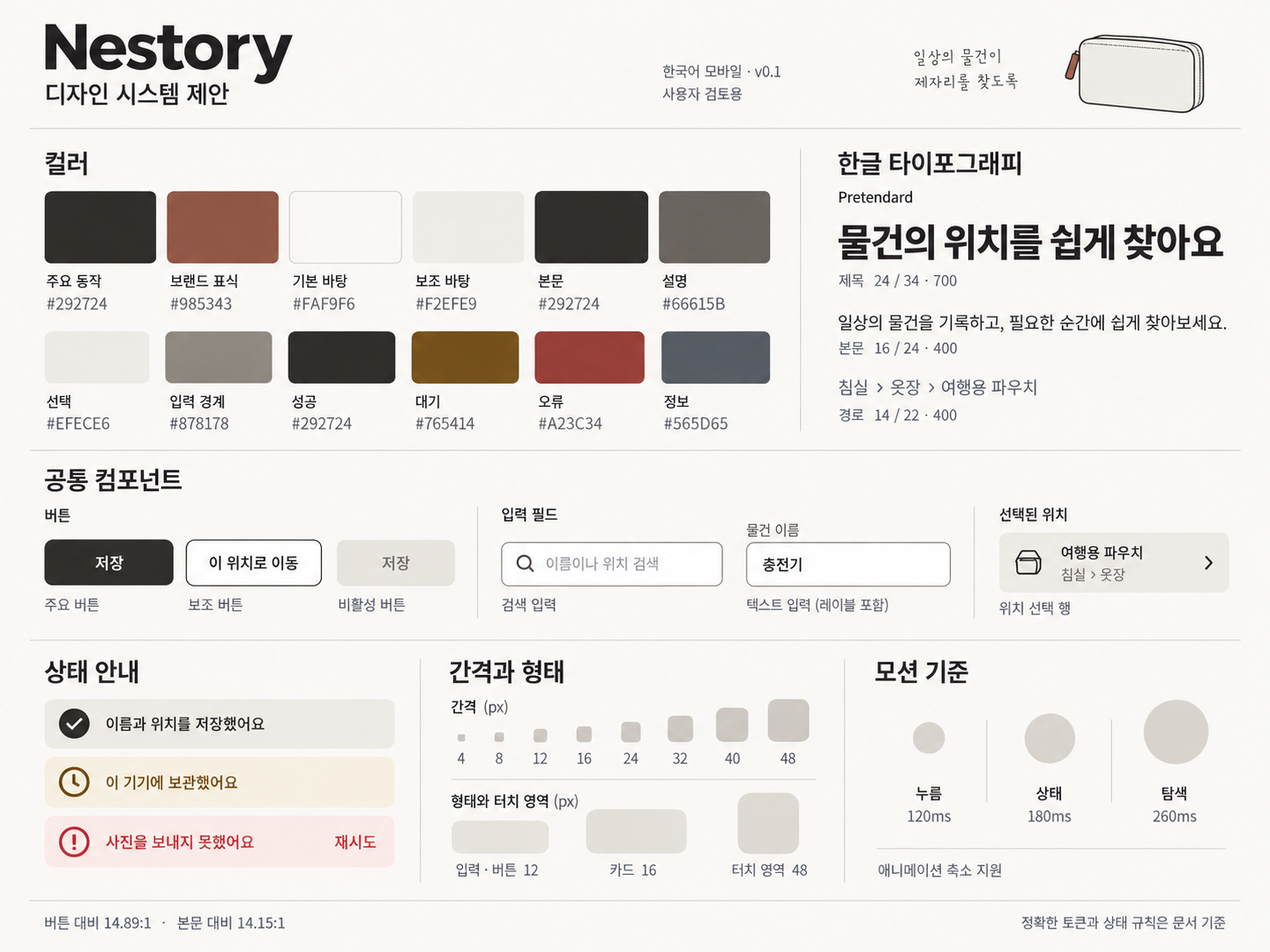
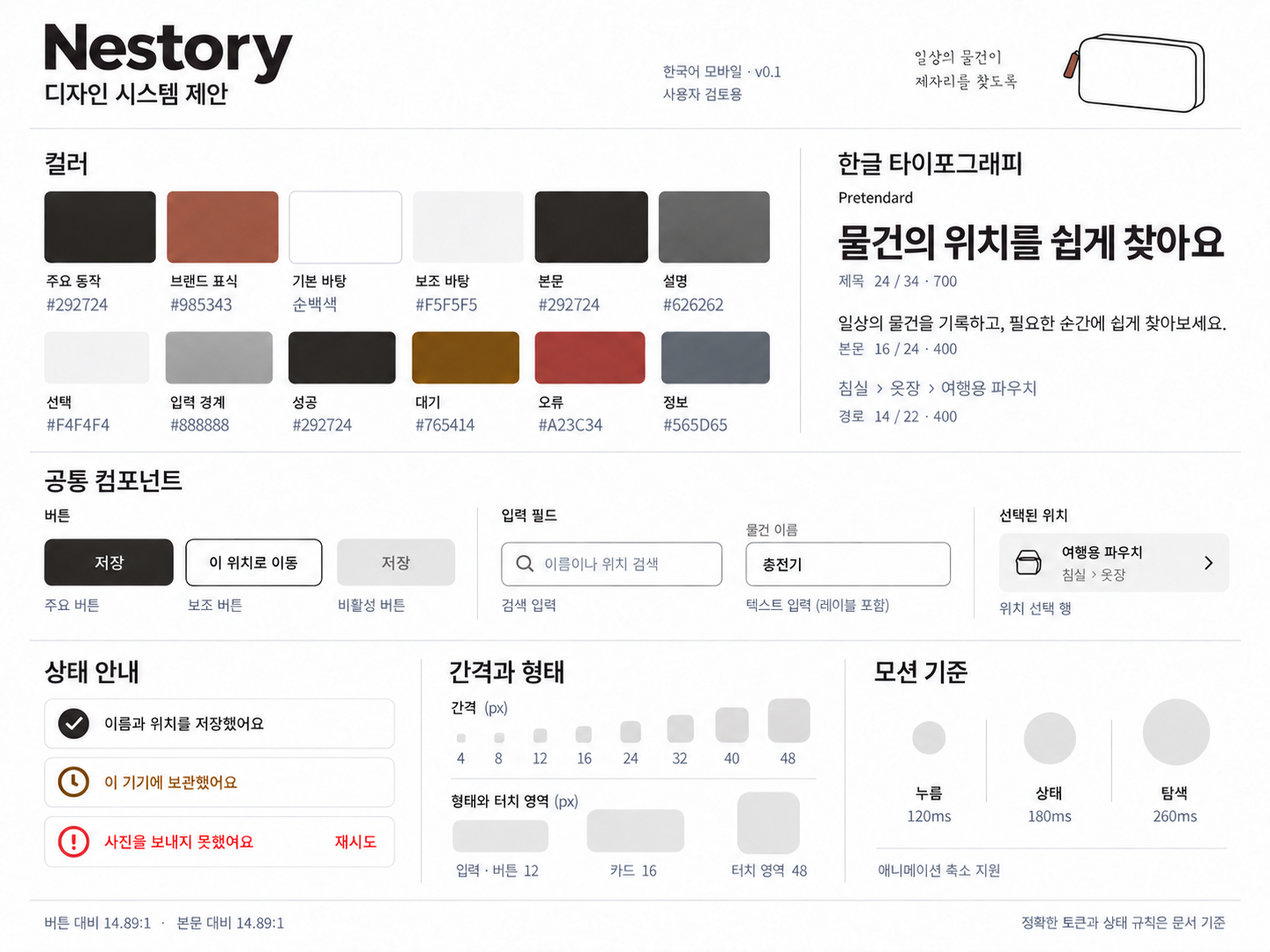
design: use white surfaces and neutral grey backgrounds (#3)

diff --git a/docs/design/DESIGN_BOARD_PROMPT.md b/docs/design/DESIGN_BOARD_PROMPT.md
@@ -1,38 +1,52 @@
 # Nestory 디자인 시스템 이미지 프롬프트
 
-[Issue 3](https://github.com/YunFlutter/nestory/issues/3)의 사용자 검토용 보드다. 원본 사양은 [디자인 시스템](../DESIGN_SYSTEM.md)이다. 사용자가 그린 계열과 AI스럽게 느껴지는 색 조합을 원하지 않아 블루·살구 제안을 웜화이트·차콜·소량의 브릭으로 수정했다.
+[Issue 3](https://github.com/YunFlutter/nestory/issues/3)의 사용자 검토용 보드다. 원본 사양은 [디자인 시스템](../DESIGN_SYSTEM.md)이다. 사용자가 그린 계열과 AI스럽게 느껴지는 색 조합을 원하지 않아 블루·살구 제안을 흰색 바탕·밝은 무채색 회색·차콜·소량의 브릭으로 수정했다. 사용자가 국내 앱과 어울리는 바탕을 요청해 웜화이트·베이지를 제거했다.
 
 ## 최종 수정에 사용한 프롬프트
 
 입력은 앞서 생성한 4:3 디자인 시스템 보드다. 아래 지시로 편집하며 레이아웃은 유지하고 색·그래픽을 교체한다. 이전 제안 이미지는 최종 결과에 포함하지 않는다. 재생성 시에는 아래 보드 내용과 문서의 토큰을 함께 사용한다.
 
 ```text
-Edit the attached Nestory design-system board. Preserve its 4:3 landscape proportions, editorial grid, section positions, generous spacing, readable Korean labels, component content, and alignment. Replace the complete visual style with a quiet, mature editorial system: warm off-white, neutral charcoal, warm grey, with a single restrained muted brick accent. It is a Korean personal belongings and location app, not an AI product or tech startup landing page. Do not add features or device frames.
+Edit the attached Nestory design-system board. Preserve its 4:3 landscape proportions, editorial grid, section positions, generous spacing, readable Korean labels, component content, and alignment. Use a crisp everyday mobile-app UI system: PURE WHITE page and surfaces, achromatic light greys, neutral charcoal, and one tiny restrained muted brick brand accent. The attached warm ivory/beige board is rejected. REMOVE the ivory cast from the entire canvas, all swatches, all component backgrounds, neutral text, spacing blocks, shapes and motion circles. Keep all existing content and the grid. The canvas must visibly read as bright clean white, not a paper sheet or a cream lifestyle mood board. It is a Korean personal belongings and location app, not an AI product or tech startup landing page. Do not add features or device frames.
 
-CRITICAL STYLE: every color surface must be SOLID and FLAT. No gradients at all, no glossy materials, no 3D render, no luminous edges, no shadows on swatches, no pastel candy palette, no blue or purple brand colors, no teal, mint, green, sage or olive. No texture that distorts token colors. Light warm paper-colored background, thin neutral rules, strong but restrained typography. Let the Korean text and functional component hierarchy provide the character. Brick is a tiny brand accent, not a colored primary button or a large decorative panel.
+CRITICAL STYLE: every color surface must be SOLID and FLAT. No gradients at all, no glossy materials, no 3D render, no luminous edges, no shadows on swatches, no pastel candy palette, no blue or purple brand colors, no teal, mint, green, sage or olive. No texture that distorts token colors. Pure WHITE #FFFFFF background with no paper texture, no beige/ivory/yellow cast, thin achromatic neutral rules, strong but restrained typography. Let the Korean text and functional component hierarchy provide the character. Brick is a tiny brand accent, not a colored primary button or a large decorative panel.
 
 Replace ALL visual fills and printed hex labels with these exact roles:
-Main page background #FAF9F6; surface #FFFFFF; subtle surface #F2EFE9; primary action and primary text #292724; secondary text #66615B; selected surface #EFECE6 and selected text/icon #292724; small brand accent #985343; input outline #878178; divider #E5E1DA; disabled background #ECE9E3 with disabled text #7B756D; success text/icon #292724 on #EFECE6; warning text/icon #765414 on #F6F0E3; error text/icon #A23C34 on #FAEEEB; information text/icon #565D65 on #F0F1F2. Primary button text is white #FFFFFF. If pressed-state needed use #151412. The brick accent is muted brownish red, never pastel pink or peach. It must not appear in the success, selected-location, spacing, or motion specimens.
+Main page background #FFFFFF; surface #FFFFFF; subtle surface #F5F5F5; primary action and primary text #292724; secondary text #626262; selected surface #F4F4F4 and selected text/icon #292724; small brand accent #985343; input outline #888888; divider #E9E9E9; disabled background #EEEEEE with disabled text #777777; success text/icon #292724 on #FFFFFF; warning text/icon #765414 on #FFFFFF; error text/icon #A23C34 on #FFFFFF; information text/icon #565D65 on #FFFFFF. Primary button text is white #FFFFFF. If pressed-state needed use #151412. The brick accent is muted brownish red, never pastel pink or peach. It must not appear in the success, selected-location, spacing, or motion specimens.
 
 HEADER: "Nestory" and "디자인 시스템 제안", metadata "한국어 모바일 · v0.1" and "사용자 검토용". Keep the short sentence "일상의 물건이 제자리를 찾도록" if it fits. Remove the glossy peach 3D pouch and blue location pin. Replace with a small simple FLAT charcoal outline drawing of a pouch, with a tiny brick zipper tab. No shading, no realistic material, no 3D, no location pin floating above it. Keep illustration small and secondary to the content.
 
-SECTION 1 "컬러": top-row swatches with labels and printed hex outside: "주요 동작" #292724; "브랜드 표식" #985343; "기본 바탕" #FAF9F6; "보조 바탕" #F2EFE9; "본문" #292724; "설명" #66615B. Second row: "선택" #EFECE6; "입력 경계" #878178; "성공" #292724; "대기" #765414; "오류" #A23C34; "정보" #565D65. All swatches are flat, single colors. Printed hex must exactly match its label and stay clear/readable.
+SECTION 1 "컬러": top-row swatches with labels and printed hex outside: "주요 동작" #292724; "브랜드 표식" #985343; "기본 바탕" #FFFFFF; "보조 바탕" #F5F5F5; "본문" #292724; "설명" #626262. Second row: "선택" #F4F4F4; "입력 경계" #888888; "성공" #292724; "대기" #765414; "오류" #A23C34; "정보" #565D65. All swatches are flat, single colors. Printed hex must exactly match its label and stay clear/readable.
 
-SECTION 2 "한글 타이포그래피": keep typeface label "Pretendard" and sample "물건의 위치를 쉽게 찾아요". Sample body "일상의 물건을 기록하고, 필요한 순간에 쉽게 찾아보세요." Labels "제목 24 / 34 · 700", "본문 16 / 24 · 400", "경로 14 / 22 · 400". Path "침실 › 옷장 › 여행용 파우치". This is an illustrative font rendering, not font installation. Charcoal main text, warm grey secondary text.
+SECTION 2 "한글 타이포그래피": keep typeface label "Pretendard" and sample "물건의 위치를 쉽게 찾아요". Sample body "일상의 물건을 기록하고, 필요한 순간에 쉽게 찾아보세요." Labels "제목 24 / 34 · 700", "본문 16 / 24 · 400", "경로 14 / 22 · 400". Path "침실 › 옷장 › 여행용 파우치". This is an illustrative font rendering, not font installation. Charcoal main text, achromatic #626262 secondary text. Never blue-grey or brown secondary text.
 
-SECTION 3 "공통 컴포넌트": primary button "저장", charcoal fill and white label; secondary button "이 위치로 이동", white fill charcoal label and neutral outline; disabled "저장", warm neutral fill and muted dark label. Captions "주요 버튼", "보조 버튼", "비활성 버튼". Search field "이름이나 위치 검색" with magnifier and caption "검색 입력". Persistent field label "물건 이름", value "충전기", caption "텍스트 입력 (레이블 포함)". Selected row on #EFECE6 with charcoal line box icon and chevron, label "여행용 파우치", path "침실 › 옷장", caption "위치 선택 행". Buttons radius 12, cards 16, consistent thin line icons, sufficient tap spacing. No green or blue accent in selected state.
+SECTION 3 "공통 컴포넌트": primary button "저장", charcoal fill and white label; secondary button "이 위치로 이동", white fill charcoal label and neutral outline; disabled "저장", achromatic light grey fill and muted dark label. Captions "주요 버튼", "보조 버튼", "비활성 버튼". Search field "이름이나 위치 검색" with magnifier and caption "검색 입력". Persistent field label "물건 이름", value "충전기", caption "텍스트 입력 (레이블 포함)". Selected row on #F4F4F4 with charcoal line box icon and chevron, label "여행용 파우치", path "침실 › 옷장", caption "위치 선택 행". Buttons radius 12, cards 16, consistent thin line icons, sufficient tap spacing. No green or blue accent in selected state.
 
-SECTION 4 "상태 안내": three rows, icons plus text, not just colors. Success: charcoal check and "이름과 위치를 저장했어요" on #EFECE6. Device-only preservation: muted amber waiting icon and "이 기기에 보관했어요" on #F6F0E3. Photo failure: red error icon and "사진을 보내지 못했어요", with separate "재시도" action, on #FAEEEB. No green success icon, no fake success for photo failure or device-only save.
+SECTION 4 "상태 안내": three rows, icons plus text, not just colors. ALL THREE row backgrounds must be WHITE, no cream, yellow or pink panel fills. Use a thin #E9E9E9 decorative border if needed. Color is reserved for the warning and error ICONS AND TEXT. Success: charcoal check and "이름과 위치를 저장했어요" on WHITE #FFFFFF. Device-only preservation: muted amber waiting icon and "이 기기에 보관했어요" on #FFFFFF. Photo failure: red error icon and "사진을 보내지 못했어요", with separate "재시도" action, on #FFFFFF. No green success icon, no fake success for photo failure or device-only save.
 
-SECTION 5 "간격과 형태": small neutral flat spacing specimens labeled "4 · 8 · 12 · 16 · 24 · 32 · 40 · 48", caption "간격 (px)". Under "형태와 터치 영역 (px)" show three simple neutral shape specimens labeled "입력·버튼 12", "카드 16", "터치 영역 48". Touch target is not a corner radius. No extra chart metrics. Keep all specimen fills warm neutral, not colored decoration.
+SECTION 5 "간격과 형태": small neutral flat spacing specimens labeled "4 · 8 · 12 · 16 · 24 · 32 · 40 · 48", caption "간격 (px)". Under "형태와 터치 영역 (px)" show three simple neutral shape specimens labeled "입력·버튼 12", "카드 16", "터치 영역 48". Touch target is not a corner radius. No extra chart metrics. Keep all specimen fills achromatic light grey, not colored decoration.
 
 SECTION 6 "모션 기준": three simple neutral flat sequence circles and thin neutral separators. Labels "누름 120ms", "상태 180ms", "탐색 260ms". Footer "애니메이션 축소 지원". No gradient circles, no glowing effects, no purple/blue/green tints.
 
-BOTTOM FOOTER, exact: "버튼 대비 14.89:1 · 본문 대비 14.15:1" and "정확한 토큰과 상태 규칙은 문서 기준". These ratios describe source document token pairs, not generated-image pixel certification.
+BOTTOM FOOTER, exact: "버튼 대비 14.89:1 · 본문 대비 14.89:1" and "정확한 토큰과 상태 규칙은 문서 기준". These ratios describe source document token pairs, not generated-image pixel certification.
 
-The result should read as a carefully typeset, practical design system review sheet. Maintain the layout, eliminate decorative color and synthetic glossy style, prioritize legible Korean. Do not add awards, certification badges, slogans, new metrics or product features.
+The result should read as a clean contemporary mobile UI specification on a PURE WHITE canvas, not a beige print editorial poster. Maintain the layout, eliminate decorative color and synthetic glossy style, prioritize legible Korean. Do not add awards, certification badges, slogans, new metrics or product features.
 ```
 
 ## 검토 기준
 
-모든 색 면이 단색인지, 그린·블루·보라 브랜드색과 광택 소품이 사라졌는지, 브릭이 작은 표식에만 쓰이는지 확인한다. 역할별 색 라벨·한국어 문구·버튼 상태·사진 실패 재시도·터치 영역의 의미를 원본 문서와 비교한다. 정확한 서체·hex·픽셀 대비는 이미지 생성 결과로 보장하지 않으며 구현은 원본 문서의 토큰을 따른다.
+배경·카드·상태 행이 흰색이고 선택·보조 영역이 무채색 회색인지, 웜화이트·베이지가 제거되었는지, 모든 색 면이 단색인지, 그린·블루·보라 브랜드색과 광택 소품이 사라졌는지, 브릭이 작은 표식에만 쓰이는지 확인한다. 역할별 색 라벨·한국어 문구·버튼 상태·사진 실패 재시도·터치 영역의 의미를 원본 문서와 비교한다. 정확한 서체·hex·픽셀 대비는 이미지 생성 결과로 보장하지 않으며 구현은 원본 문서의 토큰을 따른다.
+
+## 기본 바탕 라벨 보정
+
+첫 흰색 보드에서 기본 바탕의 hex 라벨에 오자가 보여 아래 프롬프트로 다시 수정했다.
+
+```text
+Edit ONLY the printed hex label immediately under the color swatch titled "기본 바탕" in the upper color section. It MUST read exactly "#FFFFFF" — a hash followed by SIX uppercase F characters. The current label incorrectly ends in a 6. Replace it with #FFFFFF. Keep that swatch and the entire canvas pure white. Preserve absolutely every other label, number, section, illustration, component, color, spacing, size and layout unchanged. Do not redesign or recolor anything. This is a single text typo correction.
+```
+
+위 hex 보정 시도에서도 오자가 남아 이미지의 해당 라벨을 `순백색`으로 교체했다. 정확한 값은 원본 문서의 `#FFFFFF`다.
+
+```text
+Replace the entire THIRD color specimen in the top row, the one labeled "기본 바탕", with a plain solid white #FFFFFF tile and two clear text labels below it: first "기본 바탕", second "순백색". REMOVE the hex string below this tile entirely. Do not print a hex code for this one tile. Use the Korean word "순백색" instead. Keep the whole canvas pure white. Preserve the other eleven color tiles, their labels and hex codes, every section, typography, component and illustration unchanged. No ivory, cream, beige or paper tint anywhere in the neutral surfaces. This is a replacement of one color-specimen cell and its label, not a redesign.
+```

diff --git a/docs/DESIGN_SYSTEM.md b/docs/DESIGN_SYSTEM.md
@@ -4,7 +4,7 @@
 
 ## 제안 방향
 
-웜화이트 바탕과 차콜 글자·버튼을 중심으로 구성하고, 채도를 낮춘 브릭은 작은 브랜드 표식에만 사용한다. 사용자의 그린 제외 및 AI스럽게 느껴지는 색 조합을 피하고 싶다는 요청을 반영한 새 제안이다. 블루·살구 조합, 파스텔 장식, 그라데이션, 광택 있는 3D 소품을 제거하고 사진·한글·현재 위치가 화면의 중심이 되게 한다.
+순백색 바탕과 차콜 글자·버튼을 중심으로 구성하고, 채도를 낮춘 브릭은 작은 브랜드 표식에만 사용한다. 사용자의 그린 제외, AI스럽게 느껴지는 색 조합 제외, 국내 앱을 참고한 흰색 바탕 요청을 반영한 제안이다. 웜화이트·베이지의 넓은 바탕 대신 흰색 화면과 무채색 회색 구분을 사용한다. 이는 모든 한국 사용자나 국내 앱의 색 선호를 일반화한 결과가 아니다. 블루·살구 조합, 파스텔 장식, 그라데이션, 광택 있는 3D 소품을 제거하고 사진·한글·현재 위치가 화면의 중심이 되게 한다.
 
 [디자인 연구](DESIGN_RESEARCH.md)의 출처와 화면별 적용안을 바탕으로 역할별 색, 한글 타이포그래피, 공통 컴포넌트, 상태·모션과 검증 방법을 이 문서에서 구체화한다. UI UX Pro Max 검색 결과는 한국어와 Nestory 정책에 맞게 검토하며 최종 선택을 그대로 자동 확정하지 않는다.
 
@@ -30,29 +30,29 @@
 
 | 토큰 | 값 | 사용 |
 | --- | --- | --- |
-| `background` | `#FAF9F6` | 페이지 기본 바탕 |
+| `background` | `#FFFFFF` | 페이지 기본 바탕 |
 | `surface` | `#FFFFFF` | 카드·시트·팝업 바탕 |
-| `surfaceSubtle` | `#F2EFE9` | 사진 미등록 영역·입력의 보조 바탕 |
+| `surfaceSubtle` | `#F5F5F5` | 사진 미등록 영역·입력의 보조 바탕 |
 | `textPrimary` | `#292724` | 이름·제목·현재 위치 |
-| `textSecondary` | `#66615B` | 경로·안내·선택 입력 레이블 |
+| `textSecondary` | `#626262` | 경로·안내·선택 입력 레이블 |
 | `primary` | `#292724` | 저장·추가·이동 확정, 선택 아이콘 |
 | `onPrimary` | `#FFFFFF` | primary 위 글자·아이콘 |
 | `primaryPressed` | `#151412` | primary 버튼을 누른 상태 |
-| `primaryContainer` | `#EFECE6` | 선택 목적지·활성 항목 바탕 |
+| `primaryContainer` | `#F4F4F4` | 선택 목적지·활성 항목 바탕 |
 | `onPrimaryContainer` | `#292724` | 선택 영역의 글자·아이콘 |
 | `accent` | `#985343` | 작은 브랜드 일러스트·장식 |
 | `onAccent` | `#FFFFFF` | 브릭 바탕이 필요한 브랜드 표식의 글자 |
-| `outline` | `#878178` | 입력 외곽선·선택 전 컨트롤 경계 |
-| `divider` | `#E5E1DA` | 장식적 행 구분, 상태 식별용으로 사용 금지 |
+| `outline` | `#888888` | 입력 외곽선·선택 전 컨트롤 경계 |
+| `divider` | `#E9E9E9` | 장식적 행 구분, 상태 식별용으로 사용 금지 |
 | `focus` | `#292724` | 밝은 바탕 위 2px 포커스 표시, 2px 간격 |
-| `disabledContainer` | `#ECE9E3` | 비활성 버튼 바탕 |
-| `onDisabled` | `#7B756D` | 비활성 버튼 글자, 활성 본문에는 사용 금지 |
-| `success` / `successContainer` | `#292724` / `#EFECE6` | 서버 저장·이동 완료 |
-| `warning` / `warningContainer` | `#765414` / `#F6F0E3` | 사진 대기·기기 임시 보존 |
-| `error` / `errorContainer` | `#A23C34` / `#FAEEEB` | 실패·삭제 위험 |
-| `info` / `infoContainer` | `#565D65` / `#F0F1F2` | 캐시 범위·안내 |
+| `disabledContainer` | `#EEEEEE` | 비활성 버튼 바탕 |
+| `onDisabled` | `#777777` | 비활성 버튼 글자, 활성 본문에는 사용 금지 |
+| `success` / `successContainer` | `#292724` / `#FFFFFF` | 서버 저장·이동 완료 |
+| `warning` / `warningContainer` | `#765414` / `#FFFFFF` | 사진 대기·기기 임시 보존 |
+| `error` / `errorContainer` | `#A23C34` / `#FFFFFF` | 실패·삭제 위험 |
+| `info` / `infoContainer` | `#565D65` / `#FFFFFF` | 캐시 범위·안내 |
 
-페이지·본문·행동·선택은 중립색을 유지한다. 브릭은 작은 브랜드 표현에만 사용한다. 색 면적을 채우기 위한 장식 패널이나 여러 파스텔 카드, 그라데이션은 사용하지 않는다. 버튼과 상태 배경에 같은 보조색을 무분별하게 쓰지 않는다. 성공·실패·대기는 아이콘과 문구를 함께 표시한다. 공간별 무지개색이나 색상만으로 공간·보관함·물건을 구별하는 방식은 채택하지 않는다.
+페이지·카드·시트는 흰색을 유지하고 보조 영역과 선택만 밝은 무채색 회색으로 구분한다. 상태 안내는 흰 바탕에 의미가 있는 글자·아이콘과 해결 행동을 제공한다. 페이지·본문·행동·선택은 중립색을 유지한다. 브릭은 작은 브랜드 표현에만 사용한다. 색 면적을 채우기 위한 장식 패널이나 여러 파스텔 카드, 그라데이션은 사용하지 않는다. 버튼과 상태 배경에 같은 보조색을 무분별하게 쓰지 않는다. 성공·실패·대기는 아이콘과 문구를 함께 표시한다. 공간별 무지개색이나 색상만으로 공간·보관함·물건을 구별하는 방식은 채택하지 않는다.
 
 포커스 색은 주변 바탕에 따라 적용한다. primary 버튼에는 흰 내부선과 외부 primary 선을 함께 사용해 버튼과 바깥 바탕 모두에서 구분되게 한다. 사진 위에는 중요 문구와 컨트롤을 직접 겹치지 않고 불투명한 surface 영역에 둔다. 임의 투명도를 더한 상태는 별도로 대비를 계산한다.
 
@@ -62,20 +62,20 @@
 
 | 앞 색과 바탕 | 계산 대비 | 적용 |
 | --- | --- | --- |
-| textPrimary / background | 14.15 대 1 | 본문 통과 |
-| textSecondary / background | 5.82 대 1 | 보조 본문 통과 |
-| textSecondary / surfaceSubtle | 5.34 대 1 | 보조 본문 통과 |
+| textPrimary / background | 14.89 대 1 | 본문 통과 |
+| textSecondary / background | 6.10 대 1 | 보조 본문 통과 |
+| textSecondary / surfaceSubtle | 5.59 대 1 | 보조 본문 통과 |
 | onPrimary / primary | 14.89 대 1 | 버튼 본문 통과 |
 | onPrimary / primaryPressed | 18.41 대 1 | 버튼 본문 통과 |
-| onPrimaryContainer / primaryContainer | 12.63 대 1 | 선택 본문 통과 |
+| onPrimaryContainer / primaryContainer | 13.54 대 1 | 선택 본문 통과 |
 | onAccent / accent | 5.75 대 1 | 보조 본문 통과 |
-| success / successContainer | 12.63 대 1 | 상태 본문 통과 |
-| warning / warningContainer | 6.07 대 1 | 상태 본문 통과 |
-| error / errorContainer | 5.72 대 1 | 상태 본문 통과 |
-| info / infoContainer | 5.90 대 1 | 상태 본문 통과 |
-| outline / background | 3.67 대 1 | 비텍스트 경계 통과 |
-| outline / surfaceSubtle | 3.36 대 1 | 비텍스트 경계 통과 |
-| onDisabled / disabledContainer | 3.76 대 1 | 비활성 전용, 본문 4.5 기준 미달 |
+| success / successContainer | 14.89 대 1 | 상태 본문 통과 |
+| warning / warningContainer | 6.89 대 1 | 상태 본문 통과 |
+| error / errorContainer | 6.50 대 1 | 상태 본문 통과 |
+| info / infoContainer | 6.67 대 1 | 상태 본문 통과 |
+| outline / background | 3.54 대 1 | 비텍스트 경계 통과 |
+| outline / surfaceSubtle | 3.25 대 1 | 비텍스트 경계 통과 |
+| onDisabled / disabledContainer | 3.86 대 1 | 비활성 전용, 본문 4.5 기준 미달 |
 
 일반 텍스트는 4.5 이상, 상태 식별에 필요한 아이콘과 경계는 [비텍스트 대비](https://www.w3.org/WAI/WCAG22/Understanding/non-text-contrast.html)의 3 이상을 설계 기준으로 삼는다. 이 계산은 전체 앱의 접근성 인증이 아니다. 글자 확대·사진·합성·포커스·스크린리더는 구현 후 확인해야 한다.
 
@@ -181,4 +181,6 @@
 
 사용한 내장 이미지 생성 도구의 [전체 프롬프트](design/DESIGN_BOARD_PROMPT.md)를 함께 보관한다. 이미지 생성 결과를 검사하고 문서와 다르거나 읽기 어려운 부분은 기록한다. 앱 화면 구현이나 전체 사용자 흐름의 검증 결과가 아니다.
 
-최종 보드는 1,448×1,086 PNG다. 차콜 버튼·중립색 선택/성공·작은 브릭 표식, 주요 한국어 레이블과 대비 표기를 시각적으로 확인했다. 생성 결과 일부 색 면에 미세한 명암이 남아 있으므로 앱 구현에서는 문서의 단색 토큰을 그대로 사용한다. 이미지의 Pretendard 표기는 서체 후보 설명이며 실제 폰트 적용 검증은 아니다.
+최종 보드는 1,448×1,086 PNG다. 흰색 페이지·밝은 무채색 회색 선택·차콜 버튼/성공·작은 브릭 표식, 주요 한국어 레이블과 대비 표기를 시각적으로 확인했다. 생성 결과 일부 색 면에 미세한 명암이 남아 있으므로 앱 구현에서는 문서의 단색 토큰을 그대로 사용한다. 이미지의 Pretendard 표기는 서체 후보 설명이며 실제 폰트 적용 검증은 아니다.
+
+흰색 바탕 수정 보드에서는 기본 바탕을 `순백색`으로 표기했다. 생성 이미지의 hex 오자 보정이 유지되지 않아 해당 이미지 라벨을 교체했으며 정확한 배경값은 `#FFFFFF`다. 페이지·카드·상태 안내의 흰색 바탕과 무채색 선택 영역, 대비 14.89 대 1 표기를 시각적으로 확인했다.

diff --git a/docs/DESIGN_RESEARCH.md b/docs/DESIGN_RESEARCH.md
@@ -4,7 +4,7 @@
 
 ## 연구 결론
 
-Nestory에는 사진이 주인공인 밝은 화면, 읽기 쉬운 한글, 현재 위치를 드러내는 경로, 짧은 상태 전환을 권장한다. 사용자의 그린 제외와 AI스럽게 느껴지는 색 조합을 피하고 싶다는 요청에 따라 웜화이트·차콜을 중심으로, 브릭은 작은 브랜드 표식에만 사용하는 방향을 제안한다. 파스텔 장식과 그라데이션을 줄이고 사진과 한글의 위계를 강조한다. 이는 한국인의 색 선호에 대한 조사 결과가 아니라 제품 용도와 공개 디자인 자료를 종합한 판단이다.
+Nestory에는 사진이 주인공인 밝은 화면, 읽기 쉬운 한글, 현재 위치를 드러내는 경로, 짧은 상태 전환을 권장한다. 사용자의 그린 제외, AI스럽게 느껴지는 색 조합 제외 및 국내 앱을 참고한 흰색 바탕 요청에 따라 순백색 바탕·밝은 무채색 회색 구분·차콜을 중심으로, 브릭은 작은 브랜드 표식에만 사용하는 방향을 제안한다. 파스텔 장식과 그라데이션을 줄이고 사진과 한글의 위계를 강조한다. 이는 한국인의 색 선호에 대한 조사 결과가 아니라 제품 용도와 공개 디자인 자료를 종합한 판단이다.
 
 높은 완성도는 공통 규칙과 예외 상태까지 일관되게 적용해 확인한다. 수상 여부나 등록·검색 속도 개선은 이번 연구로 보장하지 않는다. Web 지원, 대시보드, 공유, AI 인식 등 기획에 없는 기능을 추가하지 않는다.
 
